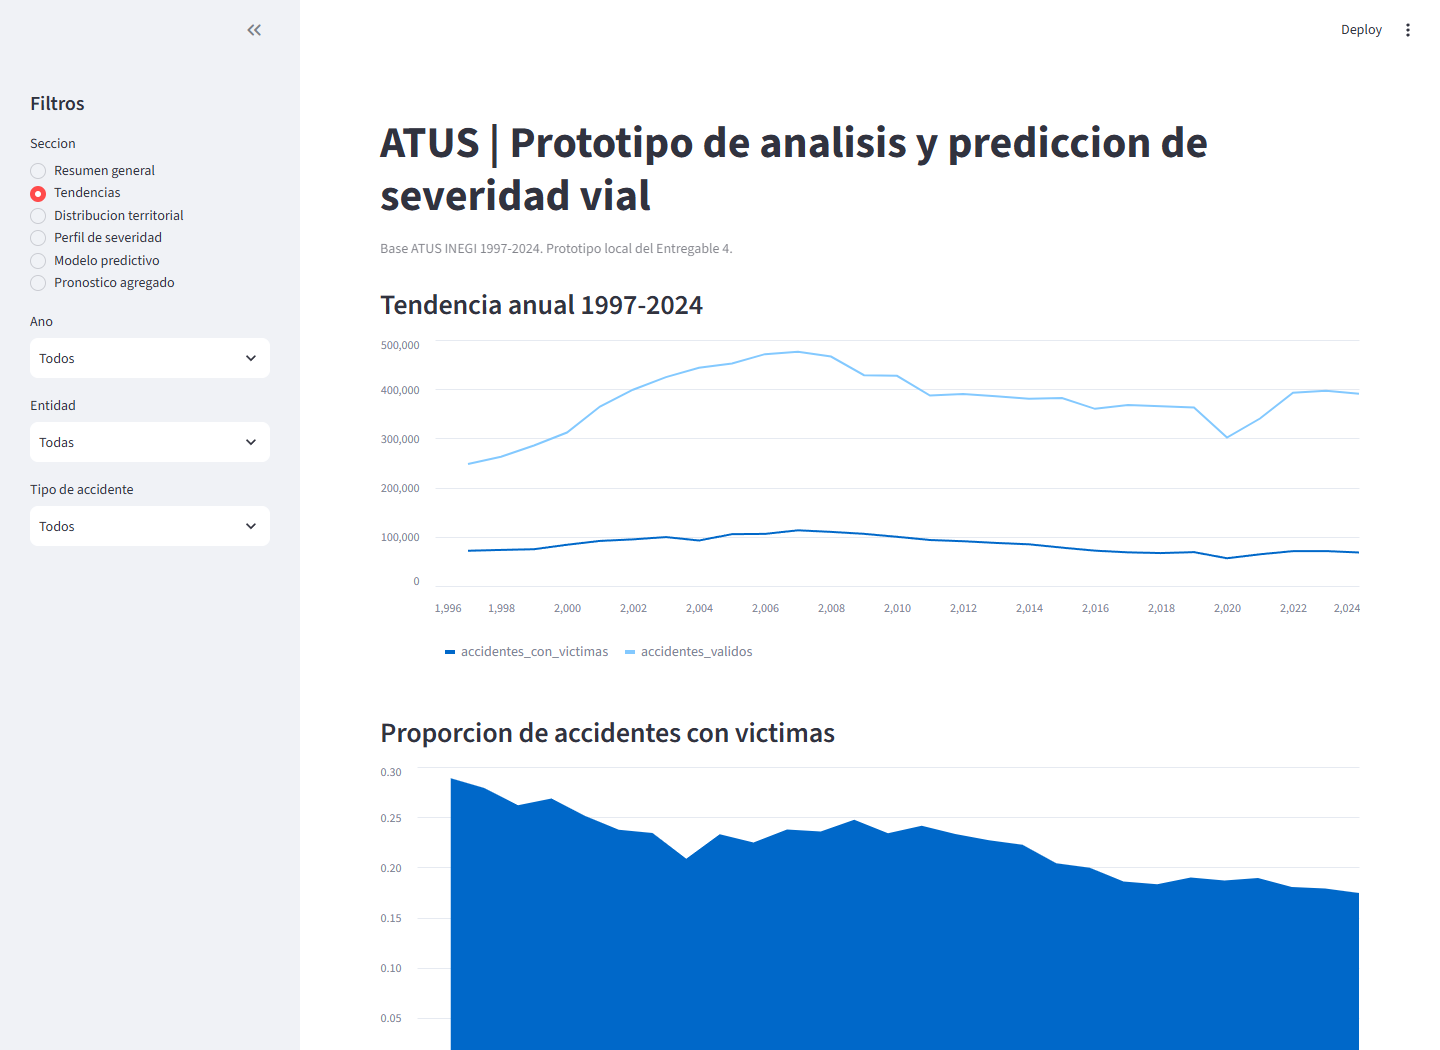
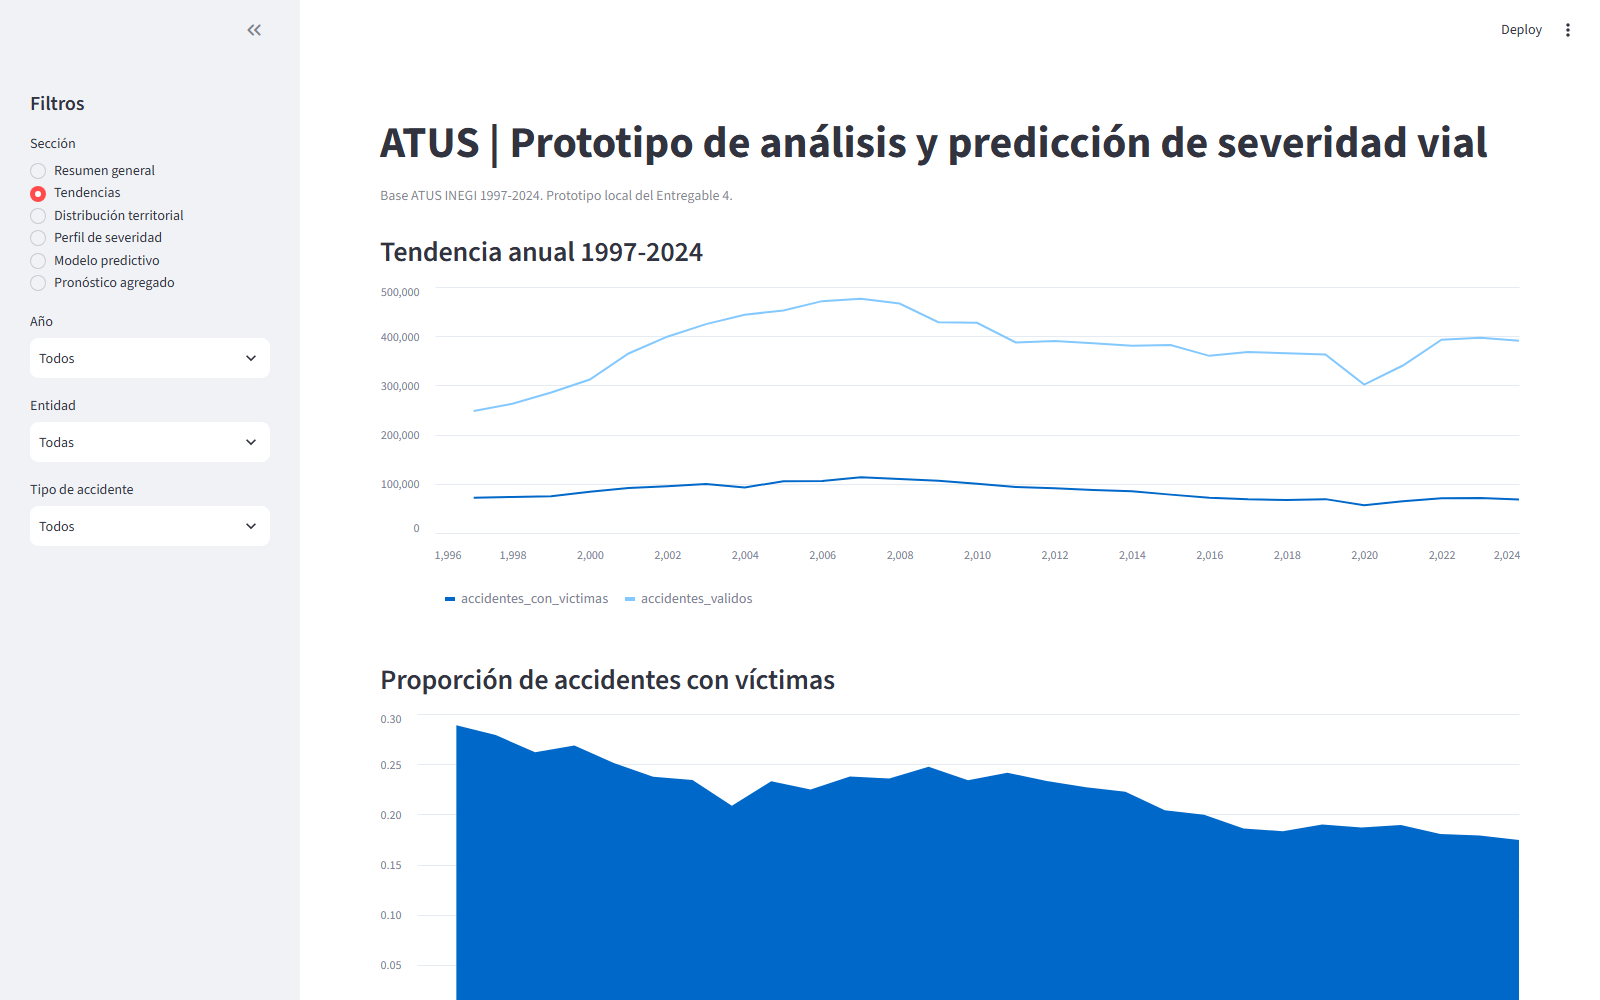
Corrige acentos en la UI y defaults del simulador; actualiza capturas

diff --git a/src/componentes/modelo_predictivo.py b/src/componentes/modelo_predictivo.py
@@ -30,12 +30,12 @@ def load_metadata() -> dict:
 
 def render(_: dict[str, object]) -> None:
     if not MODEL_PATH.exists():
-        st.error("No se encontro el modelo. Ejecuta: python src/entrenar_modelo.py")
+        st.error("No se encontró el modelo. Ejecuta: python src/entrenar_modelo.py")
         st.stop()
 
     metadata = load_metadata()
     metrics = metadata["metricas_prueba_2024"]
-    st.subheader("Desempeno en prueba temporal 2024")
+    st.subheader("Desempeño en prueba temporal 2024")
     cols = st.columns(5)
     for col, key in zip(cols, ["accuracy", "precision", "recall", "f1", "roc_auc"]):
         col.metric(key.upper(), f"{metrics[key]:.3f}")
@@ -43,14 +43,14 @@ def render(_: dict[str, object]) -> None:
     left, right = st.columns(2)
     cm = pd.DataFrame(
         metadata["matriz_confusion"],
-        index=["Real: solo danos", "Real: con victimas"],
-        columns=["Pred: solo danos", "Pred: con victimas"],
+        index=["Real: sólo daños", "Real: con víctimas"],
+        columns=["Pred: sólo daños", "Pred: con víctimas"],
     )
     left.dataframe(cm, width="stretch")
     roc = pd.DataFrame(metadata["roc_curve"])
     right.line_chart(roc.set_index("fpr")[["tpr"]])
 
-    st.subheader("Simulador de probabilidad de accidente con victimas")
+    st.subheader("Simulador de probabilidad de accidente con víctimas")
     pipeline = load_model()
     cat_values = metadata["categorical_values"]
     defaults = metadata["numeric_defaults"]
@@ -59,13 +59,13 @@ def render(_: dict[str, object]) -> None:
     with st.form("simulador"):
         c1, c2, c3 = st.columns(3)
         row = {key: defaults[key] for key in metadata["numeric_features"]}
-        row["ANIO"] = c1.number_input("Ano", min_value=1997, max_value=2026, value=2024)
-        row["ID_DIA"] = c1.number_input("Dia del mes", min_value=1, max_value=31, value=15)
+        row["ANIO"] = c1.number_input("Año", min_value=1997, max_value=2026, value=2024)
+        row["ID_DIA"] = c1.number_input("Día del mes", min_value=1, max_value=31, value=15)
         row["ID_HORA"] = c1.number_input("Hora", min_value=0, max_value=23, value=18)
         row["edad_valida"] = c1.number_input("Edad conductor", min_value=1, max_value=98, value=35)
         row["edad_no_especificada"] = 0
-        row["total_vehiculos"] = c2.number_input("Total vehiculos", min_value=1, max_value=20, value=2)
-        row["AUTOMOVIL"] = c2.number_input("Automoviles", min_value=0, max_value=20, value=1)
+        row["total_vehiculos"] = c2.number_input("Total vehículos", min_value=1, max_value=20, value=2)
+        row["AUTOMOVIL"] = c2.number_input("Automóviles", min_value=0, max_value=20, value=1)
         row["MOTOCICLET"] = c2.number_input("Motocicletas", min_value=0, max_value=20, value=1)
         row["BICICLETA"] = c2.number_input("Bicicletas", min_value=0, max_value=20, value=0)
         row["CAMIONETA"] = c2.number_input("Camionetas", min_value=0, max_value=20, value=0)
@@ -79,13 +79,24 @@ def render(_: dict[str, object]) -> None:
             index=18,
         )
         row["ID_ENTIDAD"] = entidad_label.split(" - ", 1)[0]
+        # Preferencia de valor por defecto para no aterrizar en "Certificado cero"
+        # (código administrativo minoritario que por orden alfabético queda primero
+        # en varias listas y produce un escenario poco representativo).
+        preferred_defaults = {
+            "franja_horaria": "Noche",
+            "CAUSAACCI": "Conductor",
+            "CAPAROD": "Pavimentada",
+            "SEXO": "Hombre",
+            "ALIENTO": "No",
+            "CINTURON": "Sí",
+            "TIPACCID": "Colisión con vehículo automotor",
+        }
         for feature in metadata["categorical_features"]:
             if feature == "ID_ENTIDAD":
                 continue
             options = cat_values.get(feature, ["No especificado"])
-            default_index = 0
-            if feature == "franja_horaria" and "Noche" in options:
-                default_index = options.index("Noche")
+            preferred = preferred_defaults.get(feature)
+            default_index = options.index(preferred) if preferred in options else 0
             row[feature] = c3.selectbox(feature, options, index=default_index)
 
         submitted = st.form_submit_button("Calcular probabilidad")
@@ -93,5 +104,5 @@ def render(_: dict[str, object]) -> None:
     if submitted:
         frame = pd.DataFrame([row])[metadata["numeric_features"] + metadata["categorical_features"]]
         probability = float(pipeline.predict_proba(frame)[0, 1])
-        st.metric("Probabilidad estimada de accidente con victimas", f"{probability:.1%}")
+        st.metric("Probabilidad estimada de accidente con víctimas", f"{probability:.1%}")
         st.progress(min(max(probability, 0.0), 1.0))

diff --git a/src/app.py b/src/app.py
@@ -9,7 +9,7 @@ from componentes.utils import query, require_db
 st.set_page_config(page_title="ATUS | Prototipo de severidad vial", layout="wide")
 require_db()
 
-st.title("ATUS | Prototipo de analisis y prediccion de severidad vial")
+st.title("ATUS | Prototipo de análisis y predicción de severidad vial")
 st.caption("Base ATUS INEGI 1997-2024. Prototipo local del Entregable 4.")
 
 with st.sidebar:
@@ -20,17 +20,17 @@ with st.sidebar:
     types = ["Todos"] + query("SELECT DISTINCT TIPACCID FROM hechos_accidentes ORDER BY TIPACCID")["TIPACCID"].astype(str).tolist()
 
     section = st.radio(
-        "Seccion",
+        "Sección",
         [
             "Resumen general",
             "Tendencias",
-            "Distribucion territorial",
+            "Distribución territorial",
             "Perfil de severidad",
             "Modelo predictivo",
-            "Pronostico agregado",
+            "Pronóstico agregado",
         ],
     )
-    selected_year = st.selectbox("Ano", years)
+    selected_year = st.selectbox("Año", years)
     selected_entity = st.selectbox("Entidad", entity_options)
     selected_type = st.selectbox("Tipo de accidente", types)
 
@@ -44,7 +44,7 @@ if section == "Resumen general":
     resumen.render(filters)
 elif section == "Tendencias":
     tendencias.render(filters)
-elif section == "Distribucion territorial":
+elif section == "Distribución territorial":
     territorial.render(filters)
 elif section == "Perfil de severidad":
     severidad.render(filters)

diff --git a/src/componentes/pronostico.py b/src/componentes/pronostico.py
@@ -8,7 +8,7 @@ from .utils import query
 
 
 def render(_: dict[str, object]) -> None:
-    st.subheader("Pronostico agregado simplificado")
+    st.subheader("Pronóstico agregado simplificado")
     annual = query(
         """
         SELECT CAST(anio AS INTEGER) AS anio,
@@ -34,6 +34,6 @@ def render(_: dict[str, object]) -> None:
         ],
         ignore_index=True,
     )
-    st.caption("Fallback lineal local. Es una aproximacion exploratoria, no un modelo Prophet.")
+    st.caption("Fallback lineal local. Es una aproximación exploratoria, no un modelo Prophet.")
     st.line_chart(combined.set_index("anio")[["historico", "pronostico_con_victimas"]])
     st.dataframe(forecast, width="stretch", hide_index=True)

diff --git a/src/componentes/resumen.py b/src/componentes/resumen.py
@@ -25,11 +25,11 @@ def render(filters: dict[str, object]) -> None:
 
     c1, c2, c3, c4 = st.columns(4)
     c1.metric("Accidentes en muestra", f"{total:,}")
-    c2.metric("Con victimas", f"{victimas:,}")
-    c3.metric("% con victimas", format_pct(prop))
+    c2.metric("Con víctimas", f"{victimas:,}")
+    c3.metric("% con víctimas", format_pct(prop))
     c4.metric("Periodo", f"{int(kpis['anio_min'])}-{int(kpis['anio_max'])}" if total else "Sin datos")
 
-    st.subheader("Distribucion anual filtrada")
+    st.subheader("Distribución anual filtrada")
     annual = query(
         f"""
         SELECT CAST(ANIO AS INTEGER) AS anio,

diff --git a/src/componentes/tendencias.py b/src/componentes/tendencias.py
@@ -18,6 +18,6 @@ def render(_: dict[str, object]) -> None:
         """
     )
     st.line_chart(annual.set_index("anio")[["accidentes_validos", "accidentes_con_victimas"]])
-    st.subheader("Proporcion de accidentes con victimas")
+    st.subheader("Proporción de accidentes con víctimas")
     st.area_chart(annual.set_index("anio")[["proporcion_con_victimas"]])
     st.dataframe(annual, width="stretch", hide_index=True)

diff --git a/src/componentes/utils.py b/src/componentes/utils.py
@@ -19,7 +19,7 @@ def query(sql: str, params: tuple = ()) -> pd.DataFrame:
 
 def require_db() -> None:
     if not DB_PATH.exists():
-        st.error("No se encontro la base SQLite. Ejecuta: python src/construir_base_datos.py")
+        st.error("No se encontró la base SQLite. Ejecuta: python src/construir_base_datos.py")
         st.stop()
 
 
